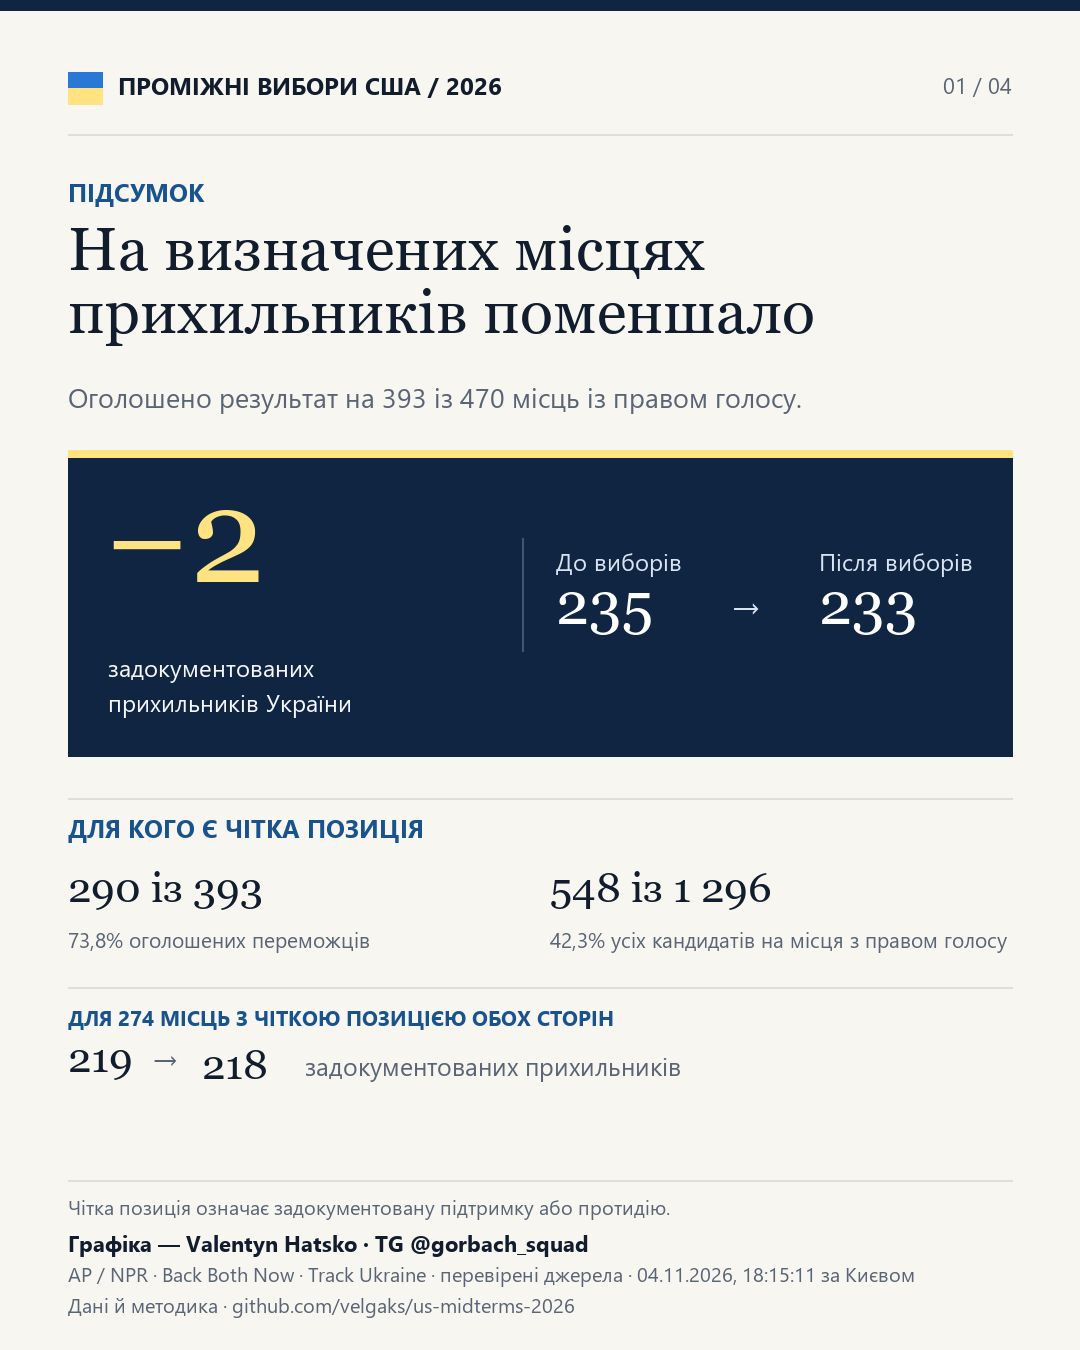
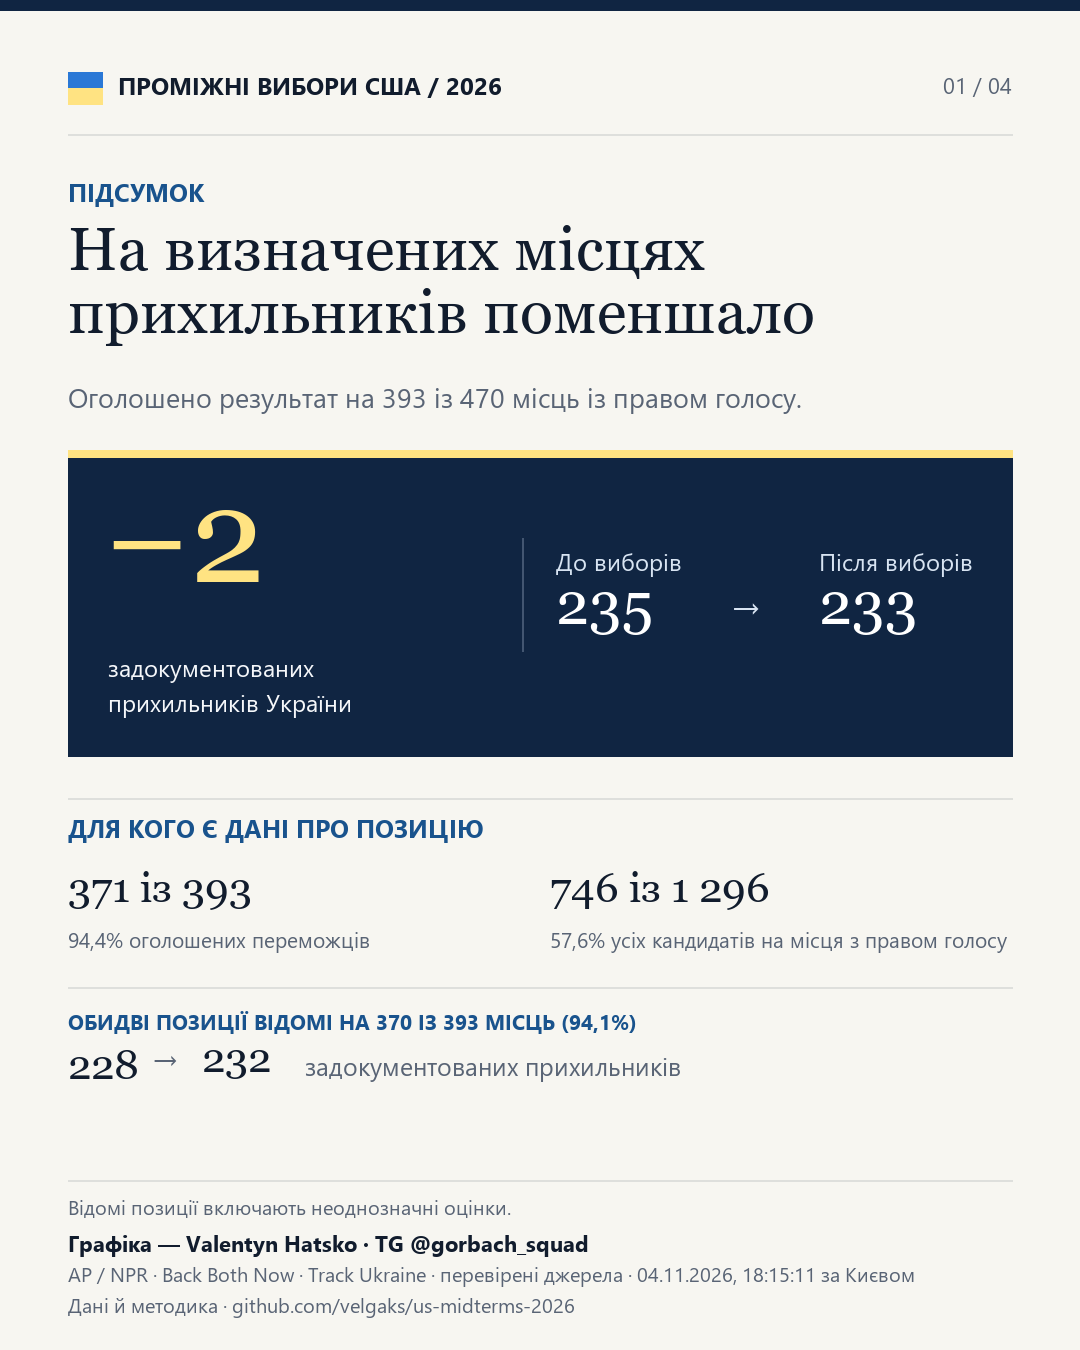
Include ambiguous positions in coverage figures

diff --git a/dashboard.html b/dashboard.html
@@ -227,7 +227,7 @@
     </dl>
     <div>
       <div class="coverage" aria-label="Покриття позицій">
-        <p>Відомою вважаємо чітку позицію щодо України — підтримку або протидію. Серед усіх кандидатів на місця з правом голосу таку позицію встановлено для <strong id="coverage-candidates"></strong>.</p>
+        <p>До відомих позицій зараховуємо підтримку, протидію та неоднозначну позицію. Серед усіх кандидатів на місця з правом голосу позицію задокументовано для <strong id="coverage-candidates"></strong>.</p>
         <p id="coverage-missing"></p>
         <p id="coverage-paired"></p>
       </div>
@@ -841,18 +841,18 @@
   const decided = sum('elections', 'decided');
   const decidedRaces = races.filter(race => chambers.includes(race.chamber) &&
     race.counts_for_next_congress === 'True' && race.winner_name);
-  const clear = status => status === 'support' || status === 'oppose';
-  const clearPredecessors = decidedRaces.filter(race => clear(race.predecessor_status)).length;
-  const clearWinners = decidedRaces.filter(race => clear(race.winner_status)).length;
+  const known = status => positions.includes(status) && status !== 'no_data';
+  const knownPredecessors = decidedRaces.filter(race => known(race.predecessor_status)).length;
+  const knownWinners = decidedRaces.filter(race => known(race.winner_status)).length;
   const unclearWinners = decidedRaces.filter(race => race.winner_status === 'unclear').length;
   const candidateTotal = Object.values(candidatePositionCounts).reduce((a, b) => a + b, 0);
-  const clearCandidates = (candidatePositionCounts.support || 0) + (candidatePositionCounts.oppose || 0);
-  const paired = decidedRaces.filter(race => clear(race.predecessor_status) && clear(race.winner_status));
+  const knownCandidates = candidateTotal - (candidatePositionCounts.no_data || 0);
+  const paired = decidedRaces.filter(race => known(race.predecessor_status) && known(race.winner_status));
   const percent = (numerator, denominator) => denominator
     ? decimal.format(100 * numerator / denominator) + '%' : '—';
   for (const [id, numerator, denominator] of [
-    ['results', decided, total], ['before', clearPredecessors, decided],
-    ['after', clearWinners, decided], ['both', paired.length, decided]
+    ['results', decided, total], ['before', knownPredecessors, decided],
+    ['after', knownWinners, decided], ['both', paired.length, decided]
   ]) {
     $('coverage-' + id).textContent = numerator + ' / ' + denominator;
     $('coverage-' + id + '-pct').textContent = percent(numerator, denominator);
@@ -861,14 +861,15 @@
   $('cutoff').textContent = 'Голоси станом на ' + cutoff + ' за Києвом';
   $('hero-lede').textContent = 'Палата представників і Сенат. Ще ' + (total - decided) +
     ' місць із правом голосу без оголошеного переможця.';
-  $('coverage-candidates').textContent = decimal.format(clearCandidates) + ' із ' + decimal.format(candidateTotal) +
-    ' (' + percent(clearCandidates, candidateTotal) + ')';
-  $('coverage-missing').textContent = 'Серед решти переможців ' + unclearWinners +
-    ' мають неоднозначну позицію, щодо ' + (decided - clearWinners - unclearWinners) + ' бракує даних.';
-  $('coverage-paired').textContent = 'На ' + paired.length + ' місцях із чіткими позиціями обох ' +
-    'кількість прихильників змінилася з ' +
+  $('coverage-candidates').textContent = decimal.format(knownCandidates) + ' із ' + decimal.format(candidateTotal) +
+    ' (' + percent(knownCandidates, candidateTotal) + ')';
+  $('coverage-missing').textContent = 'Серед переможців ' + unclearWinners +
+    ' мають неоднозначну позицію. Щодо ' + (decided - knownWinners) + ' переможців даних немає.';
+  $('coverage-paired').textContent = 'На ' + paired.length + ' місцях із відомими позиціями обох ' +
+    'кількість задокументованих прихильників змінилася з ' +
     paired.filter(race => race.predecessor_status === 'support').length +
-    ' до ' + paired.filter(race => race.winner_status === 'support').length + '.';
+    ' до ' + paired.filter(race => race.winner_status === 'support').length + '. На решті ' +
+    (decided - paired.length) + ' місцях бракує даних про попередника або переможця.';
   $('hero-delta').textContent = signed(sum('nominal', 'delta'));
   $('hero-before').textContent = sum('nominal', 'before');
   $('hero-after').textContent = sum('nominal', 'after');

diff --git a/index.html b/index.html
@@ -81,13 +81,14 @@
       <p class="asof">Голоси станом на <time datetime="2026-11-04T18:15:11+02:00">4 листопада 2026 року, 18:15:11 за Києвом</time>.</p>
       <dl class="coverage-metrics" aria-label="Оголошені результати й покриття позицій">
         <div><dt>Місця з результатом</dt><dd><strong>393 / 470</strong><span>83,6%</span></dd></div>
-        <div><dt>Відомі позиції попередників</dt><dd><strong>297 / 393</strong><span>75,6%</span></dd></div>
-        <div><dt>Відомі позиції переможців</dt><dd><strong>290 / 393</strong><span>73,8%</span></dd></div>
-        <div><dt>Відомі обидві позиції</dt><dd><strong>274 / 393</strong><span>69,7%</span></dd></div>
+        <div><dt>Відомі позиції попередників</dt><dd><strong>392 / 393</strong><span>99,7%</span></dd></div>
+        <div><dt>Відомі позиції переможців</dt><dd><strong>371 / 393</strong><span>94,4%</span></dd></div>
+        <div><dt>Відомі обидві позиції</dt><dd><strong>370 / 393</strong><span>94,1%</span></dd></div>
       </dl>
-      <p class="summary">За задокументованими позиціями кількість прихильників України на визначених місцях зменшилася <strong>з 235 до 233</strong>. На 274 місцях, де чітко відомі обидві позиції, баланс становить <strong>219 → 218</strong>.</p>
+      <p class="summary">На всіх 393 визначених місцях кількість задокументованих прихильників України змінилася <strong>з 235 до 233</strong>. На 370 місцях, де відомі обидві позиції, вона змінилася <strong>з 228 до 232</strong>.</p>
       <div class="coverage" aria-label="Покриття позицій">
-        <p>Відомою вважаємо чітку позицію щодо України — підтримку або протидію. Серед усіх кандидатів на місця з правом голосу таку позицію встановлено для <strong>548 із 1 296 (42,3%)</strong>. Серед переможців 81 має неоднозначну позицію, щодо 22 бракує даних.</p>
+        <p>До відомих позицій зараховуємо підтримку, протидію та неоднозначну позицію. Серед усіх кандидатів на місця з правом голосу позицію задокументовано для <strong>746 із 1 296 (57,6%)</strong>. Серед переможців 81 має неоднозначну позицію. Щодо 22 переможців даних немає.</p>
+        <p>На решті 23 місцях з оголошеним результатом бракує даних про попередника або переможця.</p>
         <p>Ще на 77 місцях очікують на переможця, зокрема у двох округах Луїзіани з другим туром.</p>
       </div>
     </header>

diff --git a/README.md b/README.md
@@ -3,10 +3,10 @@
 **Підтримка України після проміжних виборів до Конгресу США 2026 року.**
 
 - **393 із 470 місць (83,6%)** мають оголошений результат.
-- **297 із 393 попередників (75,6%)** і **290 із 393 переможців (73,8%)** мають чітко встановлену позицію.
-- **274 із 393 місць (69,7%)** мають чіткі оцінки з обох боків. Серед усіх кандидатів на місця з правом голосу чітку позицію встановлено для **548 із 1 296 (42,3%)**.
+- Для **392 із 393 попередників (99,7%)** і **371 із 393 переможців (94,4%)** відома позиція.
+- На **370 із 393 місць (94,1%)** відомі обидві позиції. Серед усіх кандидатів на місця з правом голосу позицію задокументовано для **746 із 1 296 (57,6%)**.
 
-За задокументованими позиціями на визначених місцях кількість прихильників України зменшилася з **235 до 233**. На 274 місцях, де відомі обидві позиції, баланс становить **219 → 218**.
+До відомих позицій зараховуємо підтримку, протидію та неоднозначну позицію. На всіх визначених місцях кількість задокументованих прихильників України змінилася з **235 до 233**. На 370 місцях, де відомі обидві позиції, вона змінилася з **228 до 232**.
 
 Голоси оновлено станом на **4 листопада 2026 року, 18:15:11 за Києвом**. На 77 місцях ще очікують на переможця, зокрема у двох округах Луїзіани з другим туром.
 
